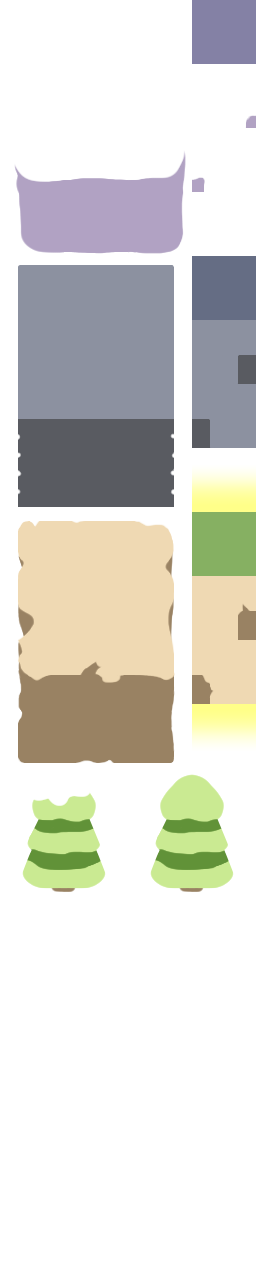
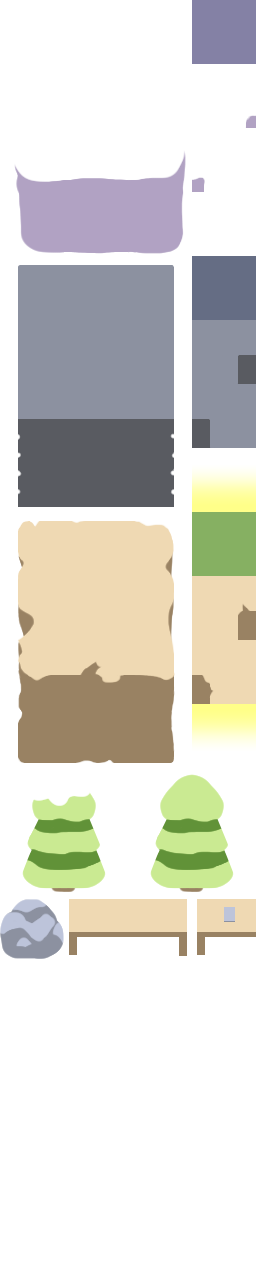
more content

Changed region(s): [[0.0, 0.6875, 1.0, 0.75]]

diff --git a/scripts/room.js b/scripts/room.js
@@ -1,1 +1,1 @@
-var maps = {"Title":{"map":[[]],"npcs":[],"doors":[],"background":"block"},"JIDA":{"map":[[0,1,0,1,0,0,0,0,0,0,0,0,0,0,0,0,0,0,0,0,0,0,0,0,0,0,0,0,0,0],[1,0,0,1,1,1,0,0,1,1,1,0,0,1,1,1,1,1,1,1,1,1,0,0,1,1,1,1,1,0],[1,0,0,1,0,0,1,1,0,0,0,1,1,0,0,0,0,0,0,0,0,0,1,1,0,0,0,0,0,1],[1,0,0,0,0,0,1,1,0,0,0,1,1,0,0,0,0,0,0,0,0,0,1,1,0,0,0,0,0,1],[1,0,0,0,0,0,0,0,0,0,0,0,0,0,0,0,0,0,0,0,0,0,0,0,0,0,0,0,0,1],[1,0,0,0,0,0,0,0,0,0,0,0,0,0,0,0,0,0,0,0,0,0,1,1,0,0,0,0,0,1],[1,0,0,0,0,0,0,0,0,0,0,0,0,0,0,0,0,0,0,0,0,0,1,1,0,0,0,0,0,1],[1,0,0,0,0,0,0,0,0,0,0,0,0,0,0,0,0,0,0,0,0,0,1,1,0,0,0,0,0,1],[1,0,0,0,0,0,0,0,0,0,0,0,0,0,0,0,0,0,0,0,0,0,1,1,0,0,0,0,0,1],[0,1,1,1,1,1,1,1,1,1,1,1,1,1,1,1,1,1,1,1,1,1,0,0,1,1,1,1,1,0]],"background":"map_JIDA","npcs":[{"name":"Ferid","x":5,"y":2,"labels":{"Main":["What a grand opportunity",""],"After":["Fight again?",{"menu":"text","choices":[["Yes","Yes"],["No","No"]]}],"Yes":["Yes, yes."],"No":["What a shame."]},"image":"menu_indicator","spawn_condition":""},{"name":"Sayuri","x":11,"y":4,"labels":{"Main":[{"move":1,"dir":"l","run":true,"teleport":false}]},"image":"sayuri"}],"doors":[{"x":2,"y":0,"toX":3,"toY":18,"toMap":"Path"}],"spawnx":26,"spawny":3},"Path":{"map":[[0,0,0,0,0,0,0,1,0,0,0,0,1,0,1,0,0,0,0,0],[0,0,0,1,1,1,1,0,1,1,1,1,1,0,1,0,0,0,0,0],[0,0,1,0,0,0,0,0,0,0,0,0,0,0,0,1,0,0,0,0],[0,0,1,0,0,0,0,0,0,0,0,0,0,0,0,0,1,0,0,0],[0,1,0,0,0,0,0,0,0,0,0,0,0,0,0,0,1,0,0,0],[1,0,0,0,0,0,0,0,0,0,0,0,0,0,0,0,1,0,0,0],[1,0,0,0,0,0,0,0,0,0,0,0,0,0,0,0,0,1,0,0],[1,0,0,0,0,0,0,0,0,0,0,0,0,0,0,0,0,1,0,0],[1,0,0,0,0,0,0,0,0,0,0,0,0,0,0,0,0,1,1,0],[0,1,0,0,0,0,0,0,0,0,0,0,0,0,0,0,0,0,0,1],[0,0,1,1,1,0,1,1,0,0,0,0,0,0,0,0,0,0,0,1],[0,0,0,0,0,1,0,1,0,0,0,0,0,0,0,0,0,0,0,1],[0,0,0,0,0,0,0,1,0,0,0,0,0,0,0,0,0,0,0,1],[0,0,1,0,0,0,1,1,0,0,0,0,0,0,0,0,0,0,0,1],[0,1,0,1,1,1,0,0,0,0,0,0,0,0,0,0,0,0,0,1],[1,0,0,0,0,0,0,0,0,0,0,0,0,0,0,0,0,0,0,1],[1,0,0,0,0,0,0,0,0,0,0,0,0,0,0,0,0,0,0,1],[1,0,0,0,0,0,0,0,0,0,0,0,0,0,0,0,0,0,0,1],[1,0,0,0,0,0,0,0,0,0,0,0,0,0,0,0,0,0,0,1],[0,1,1,0,1,1,1,1,1,1,1,1,1,1,1,1,1,1,1,1]],"background":"map_Path","npcs":[],"doors":[{"x":3,"y":19,"toX":2,"toY":1,"toMap":"JIDA"}]}}
+var maps = {"Title":{"map":[[]],"npcs":[],"doors":[],"background":"block"},"JIDA":{"map":[[0,1,0,1,0,0,0,0,0,0,0,0,0,0,0,0,0,0,0,0,0,0,0,0,0,0,0,0,0,0],[1,0,0,1,1,1,0,0,1,1,1,0,0,1,1,1,1,1,1,1,1,1,0,0,1,1,1,1,1,0],[1,0,0,1,0,0,1,1,0,0,0,1,1,0,0,0,0,0,0,0,0,0,1,1,0,0,0,0,0,1],[1,0,0,0,0,0,1,1,0,0,0,1,1,0,0,0,0,0,0,0,0,0,1,1,0,0,0,0,0,1],[1,0,0,0,0,0,0,0,0,0,0,0,0,0,0,0,0,0,0,0,0,0,0,0,0,0,0,0,0,1],[1,0,0,0,0,0,0,0,0,0,0,0,0,0,0,0,0,0,0,0,0,0,1,1,0,0,0,0,0,1],[1,0,0,0,0,0,0,0,0,0,0,0,0,0,0,0,0,0,0,0,0,0,1,1,0,0,0,0,0,1],[1,0,0,0,0,0,0,0,0,0,0,0,0,0,0,0,0,0,0,0,0,0,1,1,0,0,0,0,0,1],[1,0,0,0,0,0,0,0,0,0,0,0,0,0,0,0,0,0,0,0,0,0,1,1,0,0,0,0,0,1],[0,1,1,1,1,1,1,1,1,1,1,1,1,1,1,1,1,1,1,1,1,1,0,0,1,1,1,1,1,0]],"background":"map_JIDA","npcs":[{"name":"Ferid","x":5,"y":2,"labels":{"Main":[{"name":"Ferid"},"What a grand opportunity to fight.",{"battle":"ferid"}],"Yes":["Yes, yes.",{"battle":"ferid"}],"No":["What a shame."],"Secondary":[{"name":"Ferid"},"Fight again?",{"menu":"text","choices":[["Yes","Yes"],["No","No"]]}]},"image":"ferid","spawn_condition":""},{"name":"Sayuri","x":17,"y":4,"labels":{"Main":[{"name":"Sayuri"},"Good luck on your mission!"]},"image":"sayuri"},{"name":"device","x":9,"y":2,"labels":{"Main":[{"pickup":"device","message":"Picked up the [magic device].","after":"No need for a second device."},{"setvar":"state","value":"start"}]}},{"name":"door_lol","x":2,"y":0,"labels":{"Main":[{"name":"Mika"},"I should get my device first."]},"spawn_condition":""}],"doors":[],"spawnx":24,"spawny":4},"Path":{"map":[[0,0,0,0,0,0,0,1,0,0,0,0,1,0,1,0,0,0,0,0],[0,0,0,1,1,1,1,0,1,1,1,1,1,0,1,0,0,0,0,0],[0,0,1,0,0,0,0,0,0,0,0,0,0,0,0,1,0,0,0,0],[0,0,1,0,0,0,0,0,0,0,0,0,0,0,0,0,1,0,0,0],[0,1,0,0,0,0,0,0,0,0,0,0,0,0,0,0,1,0,0,0],[1,0,0,0,0,0,0,0,0,0,0,1,0,0,0,0,1,0,0,0],[1,0,0,0,0,0,0,0,0,0,0,0,0,0,0,0,0,1,0,0],[1,0,0,0,0,0,0,0,0,0,0,0,0,0,0,0,0,1,0,0],[1,0,0,0,0,0,0,0,0,0,0,0,0,0,0,0,0,1,1,0],[0,1,0,0,0,0,0,0,0,0,0,0,0,0,0,0,0,0,0,1],[0,0,1,1,1,0,1,1,0,0,0,0,0,0,0,0,0,0,0,1],[0,0,0,0,0,1,0,1,0,0,0,0,0,0,0,0,0,0,0,1],[0,0,0,0,0,0,0,1,0,0,0,0,0,0,0,0,0,0,0,1],[0,0,1,0,0,0,1,1,0,0,0,0,0,0,0,0,0,0,0,1],[0,1,0,1,1,1,0,0,0,0,0,0,0,0,0,0,0,0,0,1],[1,0,0,0,0,0,0,0,0,0,0,0,0,0,0,0,1,0,0,1],[1,0,0,0,0,0,0,0,0,0,0,0,0,0,0,1,0,0,0,1],[1,0,0,0,0,0,0,0,0,0,0,0,0,0,0,0,0,0,0,1],[1,0,0,0,0,0,0,0,0,0,0,0,0,0,0,0,0,0,0,1],[0,1,1,0,1,1,1,1,1,1,1,1,1,1,1,1,1,1,1,1]],"background":"map_Path","npcs":[{"name":"rock","x":13,"y":1,"labels":{"Main":["A rock. Always has been, always will be."]},"image":"rock","spawn_condition":"before_end"}],"doors":[{"x":3,"y":19,"toX":2,"toY":1,"toMap":"JIDA"},{"x":5,"y":10,"toX":16,"toY":1,"toMap":"Territory"},{"x":13,"y":0,"toX":12,"toY":8,"toMap":"cave"}],"spawnx":3,"spawny":18},"Territory":{"map":[[0,0,0,0,0,0,1,1,1,1,1,1,1,1,1,1,1,1,1,1],[0,1,1,1,1,1,0,0,0,0,0,0,0,0,0,0,0,0,0,0],[1,0,0,0,0,0,0,0,0,0,0,0,0,1,1,1,0,1,1,1],[1,0,0,0,0,0,0,0,0,0,0,0,0,1,0,0,1,0,0,0],[1,0,0,0,0,0,0,0,0,0,0,0,0,1,0,0,0,0,0,0],[1,0,0,0,0,0,0,0,0,0,0,0,0,1,1,0,0,0,0,0],[0,1,1,0,0,0,0,0,0,0,0,0,0,0,0,1,1,1,1,0],[0,0,1,0,0,0,0,0,0,0,0,0,0,0,0,0,0,0,0,1],[0,1,1,0,0,0,0,0,0,0,0,0,0,0,0,0,0,0,0,1],[1,0,0,0,0,0,0,0,0,0,0,0,0,0,0,0,0,0,0,1],[1,0,0,0,0,0,0,0,0,0,0,0,0,0,0,0,0,0,0,1],[1,0,0,0,0,0,0,0,0,0,0,0,0,0,0,0,0,1,1,0],[1,0,0,0,0,0,0,0,0,0,0,0,0,0,0,0,0,1,0,0],[1,1,1,1,1,1,1,1,1,1,1,1,1,1,1,1,1,0,0,0],[0,1,0,0,0,0,0,0,0,0,0,0,0,0,0,0,0,0,0,0]],"background":"map_Territory","npcs":[{"name":"crowley","x":14,"y":6,"labels":{"Main":["You shouldn't get here. How did you get here"]},"image":"crowley_shadow"},{"name":"crowley_2","x":12,"y":1,"labels":{"Main":["Argh...my head hurts."]},"image":"crowley","spawn_condition":"looking_for_yuu"}],"doors":[{"x":16,"y":2,"toX":5,"toY":9,"toMap":"Path"}],"spawnx":5,"spawny":5},"cave":{"map":[[0,0,0,0,0,0,0,0,0,0,0,0,0,0,0],[0,0,1,1,0,1,1,1,1,1,1,1,1,1,0],[0,1,0,0,1,0,0,0,0,0,0,0,0,0,1],[1,0,0,0,1,0,0,0,0,1,1,0,0,0,1],[1,0,0,0,0,0,0,0,0,1,1,0,0,0,1],[1,0,1,0,0,0,1,1,1,0,1,0,0,0,1],[1,0,0,0,0,0,1,0,0,0,1,0,0,0,1],[1,0,0,0,0,0,1,1,1,0,1,0,0,0,1],[1,0,0,0,0,0,0,0,0,1,1,0,0,0,1],[0,1,1,1,1,1,1,1,1,0,0,1,0,1,0]],"background":"map_cave","npcs":[{"name":"Ferid","x":5,"y":8,"labels":{"Main":["placeholder dialogue",{"battle":"ferid"}]},"image":"ferid"}],"doors":[{"x":12,"y":9,"toX":13,"toY":1,"toMap":"Path"}]}}

diff --git a/scripts/enemy.js b/scripts/enemy.js
@@ -1,1 +1,1 @@
-var enemies = {"mika_normal":{"name":"Mika","image":"mika","moves":[{"name":"Sword Swing","power":"20","effects":[{"template":"Mika attacks ${_enemy}!"},{"damage":20}],"description":"Slash at the enemy."},{"name":"Kick","power":"40","effects":[{"template":"Mika kicks ${_enemy}!"},{"damage":40,"pause":0},"Mika is damaged by recoil!",{"damage":10,"target":true}],"description":"Kick the opponent."},{"name":"Inner Calm","power":0,"effects":["Mika focuses and becomes calm.",{"statboost":"def_mul","relative":true,"value":2}],"description":"The eye of the hurricane."}],"hp":50,"speed":50,"atk":70,"def":60},"crowley":{"name":"Crowley","image":"crowley","moves":[{"name":"Regen","power":"[Healing]","effects":["Crowley uses vampire regeneration powers.",{"transition":"timewarp","duration":0},{"pause":50},{"damage":-20,"target":true,"pause":0},{"pause":50},"Crowley has recovered HP!"],"description":"Heals self."},{"name":"Sword Slash","power":"40","effects":[{"template":"Crowley slashes at ${_enemy}."},{"damage":40,"pause":0,"target":false}],"description":"Slice enemies with a sword."},{"name":"Bloodthirsty Sword","power":"-","effects":["Crowley commands his sword to drink his blood.",{"statboost":"atk_mul","relative":true,"value":1},{"damage":10,"target":true},"Crowley's attack stat increased!"],"description":"Consume HP to boost Attack."}],"speed":90,"hp":70,"atk":60,"def":40},"ferid":{"name":"Ferid","image":"menu_indicator","moves":[{"name":"Regen","power":"[Healing]","effects":["Ferid heals himself with vampiric regeneration.",{"pause":40},{"transition":"time_warp","duration":80},{"pause":40},{"damage":-20,"pause":0,"target":true},""],"description":"Recovery."},{"name":"Bloodsucking Sword","power":"-","effects":["Ferid's sword consumes some of his blood.",{"statboost":"atk_mul","relative":true,"value":1},{"damage":-10,"pause":0,"target":true}],"description":"His weapon gains power from drinking blood."}],"hp":50,"speed":90,"def":50,"atk":70}}
+var enemies = {"mika_normal":{"name":"Mika","image":"mika","moves":[{"name":"Sword Swing","power":"20","effects":[{"template":"Mika attacks ${_enemy}!"},{"damage":20}],"description":"Slash at the enemy."},{"name":"Kick","power":"40","effects":[{"template":"Mika kicks ${_enemy}!"},{"damage":40,"pause":0},"Mika is damaged by recoil!",{"damage":10,"target":true}],"description":"Kick the opponent."},{"name":"Inner Calm","power":0,"effects":["Mika focuses and becomes calm.",{"statboost":"def_mul","relative":true,"value":2}],"description":"The eye of the hurricane."}],"hp":50,"speed":50,"atk":70,"def":60},"crowley":{"name":"Crowley","image":"crowley","moves":[{"name":"Regen","power":"[Healing]","effects":["Crowley uses vampire regeneration powers.",{"transition":"timewarp","duration":0},{"pause":50},{"damage":-20,"target":true,"pause":0},{"pause":50},"Crowley has recovered HP!"],"description":"Heals self."},{"name":"Sword Slash","power":"40","effects":[{"template":"Crowley slashes at ${_enemy}."},{"damage":40,"pause":0,"target":false}],"description":"Slice enemies with a sword."},{"name":"Bloodthirsty Sword","power":"-","effects":["Crowley commands his sword to drink his blood.",{"statboost":"atk_mul","relative":true,"value":1},{"damage":10,"target":true},"Crowley's attack stat increased!"],"description":"Consume HP to boost Attack."}],"speed":90,"hp":70,"atk":60,"def":40},"ferid":{"name":"Ferid","image":"menu_indicator","moves":[{"name":"Regen","power":"[Healing]","effects":["Ferid heals himself with vampiric regeneration.",{"pause":40},{"transition":"timewarp","duration":80},{"pause":40},{"damage":-20,"pause":0,"target":true}],"description":"Recovery."},{"name":"Bloodsucking Sword","power":"-","effects":["Ferid's sword consumes some of his blood.",{"statboost":"atk_mul","relative":true,"value":1},{"damage":-10,"pause":0,"target":true}],"description":"His weapon gains power from drinking blood."}],"hp":50,"speed":90,"def":50,"atk":70}}

diff --git a/scripts/object.js b/scripts/object.js
@@ -8,11 +8,11 @@ var inventory = {};
 var quests = {};
 var finished_quests = {};
 var transitions;
-var landscape = {
-  bridge: true,
-  telescope: true,
+var user_vars = {
+  entered_territory: false,
+  looking_for_yuu: false,
+  before_end: true
 };
-var user_vars = {};
 var party = [];
 var battle_data = {};
 var progress = 0;
@@ -23,7 +23,6 @@ if (localStorage.getItem('save')) {
 } else {
   var main_menu_item = [
     ["PLAY", "serapoke_intro"],
-    ["battle test", "serapoke_battle_test"]
   ]
 }
 
@@ -47,13 +46,12 @@ for (let key of Object.keys(maps)) {
 // player
 player = new Player(0, 0, "mika");
 
-label.serapoke_battle_test = [
-{battle:"crowley", lose:"serapoke_battle_loss"},
-{jump:"serapoke_init"},
-]
-
-label.serapoke_battle_loss = [
-{room:"JIDA"}
+// adding functionality that isn't in the builder
+maps.JIDA.npcs[3].labels.Main = [
+  () => {
+    if (inventory.device) bt.Insert({room:"Path"});
+    else bt.Insert({name:"Mika"},"I should go get my device first.");
+  }
 ]
 
 // INTRO
@@ -66,16 +64,18 @@ label.main_menu = [
 {change:background, image:spr.main_menu},
 {menu:text,
 	choices: main_menu_item
-},
+}
 ]
+
 label.serapoke_intro = [
 {change:background},
 {change:text, x:80, y:150},
-"In this world, where there are many dangers...@                                        @...JIDA keeps the world at peace.",
+"In this world, where there are many dangers...@                           @...JIDA keeps the world at peace.",
 {transition:"fade"},
 {pause:50},
 {jump:"serapoke_init"}
 ]
+
 label.serapoke_init = [
 {change:text, x:80, y:400},
 ()=>{
@@ -93,7 +93,85 @@ label.serapoke_init = [
 {show:"box"},
 {name:"Sayuri"},
 "I see you're dressed for your mission already.",
-"As long as you keep your head down, the vampires@won't be suspicious.",
+{name:"Mika"},
+"Yes. Even if it's just the edge of vampire territory,@I'd rather not draw suspicion.",
+{name:"Sayuri"},
+"Yoichi will be your contact today. Make sure to@pick up your magic device from the desk.",
+{name:"Mika"},
+"I will, thank you.",
+{move:1, dir:"l"},
+{pause:10},
+{move:1, dir:"d"},
+{pause:20}
+]
+
+label.serapoke_path = [
+"*ping*",
+{name:"Yoichi"},
+"Hi! This is Yoichi.",
+{name:"Mika"},
+"insert mission review here",
+"mika must check out a monster sighting at the border",
+"yuu who had an earlier mission is supposed to@meet up with him"
+]
+
+label.serapoke_territory = [
+"This is the vampire territory...",
+{move:0, dir:"l", run:true},
+{pause:60},
+{move:0, dir:"s"},
+{move:0, teleport:true, x:-1, y:-1},
+"!!!",
+"...",
+"Whew, I don't think he saw me..."
+]
+
+label.serapoke_battle_crowley = [
+{name:"Crowley"},
+"placeholder dialogue",
+{move:1, dir:"r"},
+{pause:30},
+{move:1, dir:"s"},
+"more placeholder",
+"yeh",
+{battle:"crowley", lose:"serapoke_battle_loss"},
+{name:"Crowley"},
+"No!",
+{move:1, dir:"l", run:true},
+{pause:30},
+{move:1, dir:"s"},
+"I've been defeated...",
+"Who cares what Ferid is up to anyway.",
+"If you want to find him, try somewhere purple.",
+{setvar:"looking_for_yuu", value:false},
+{setvar:"before_end", value:false}
+]
+
+maps.Territory.creation_code = () => {
+  if (!user_vars.entered_territory) {
+    user_vars.entered_territory = true;
+    calling_npc = null;
+    bt.adv.name.text = "Mika";
+    in_talk = true;
+    bt.Jump("serapoke_territory");
+  } else {
+    npcs[0].x = -1 * GRIDSIZE;
+    if (user_vars.looking_for_yuu) {
+      calling_npc = null;
+      bt.adv.name.text = "Mika";
+      in_talk = true;
+      if (user_vars.has_fought_crowley) {
+        bt.Jump("serapoke_rematch_crowley");
+      } else {
+        user_vars.has_fought_crowley = true;
+        bt.Jump("serapoke_battle_crowley");
+      }
+    }
+  }
+}
+
+label.serapoke_battle_loss = [
+{room:"JIDA"}
 ]
 
 label.serapoke_load = [

diff --git a/builder/src/components/ScriptEditor.vue b/builder/src/components/ScriptEditor.vue
@@ -81,6 +81,7 @@
           :npcs="npcs"
           :index="name + i"
           :items="items"
+          :enemies="enemies"
           @create-next="createNext(name, i)"
           @remove-action="removeCell(name, i)"
           @focus-next="focusNext(name, i)"
@@ -97,6 +98,7 @@
 </template>
 
 <script>
+import DialogueBattle from '@/components/DialogueBattle.vue'
 import DialogueName from '@/components/DialogueName.vue'
 import DialogueMenu from '@/components/DialogueMenu.vue'
 import DialogueMove from '@/components/DialogueMove.vue'
@@ -105,6 +107,7 @@ import DialogueVar from '@/components/DialogueVar.vue'
 import DialoguePause from '@/components/DialoguePause.vue'
 export default {
   components: {
+    'dialogue-battle': DialogueBattle,
     'dialogue-name': DialogueName,
     'dialogue-menu': DialogueMenu,
     'dialogue-move': DialogueMove,
@@ -134,6 +137,10 @@ export default {
       required: true
     },
     items: {
+      type: Object,
+      required: true
+    },
+    enemies: {
       type: Object,
       required: true
     }
@@ -182,6 +189,11 @@ export default {
           color: 'blue',
           cellType: 'name',
           icon: 'mdi-account-card-details'
+        },
+        {
+          color: 'pink',
+          cellType: 'battle',
+          icon: 'mdi-google-photos'
         }
       ]
     }
@@ -194,6 +206,7 @@ export default {
       else if (line.pause || line.pause === 0) return 'dialogue-pause'
       else if (line.pickup || line.drop) return 'dialogue-item'
       else if (line.setvar || line.setvar === '') return 'dialogue-var'
+      else if (line.battle || line.battle === '') return 'dialogue-battle'
     },
     addCell() {
       this.story.push('')
@@ -262,6 +275,16 @@ export default {
           break
         case 'var':
           this.story.splice(index, 1, { setvar: '', value: '' })
+          break
+        case 'battle':
+          if (this.enemies) {
+            this.story.splice(index, 1, {
+              battle: Object.keys(this.enemies)[0]
+            })
+          } else {
+            this.story.splice(index, 1, { battle: 'Please create an enemy.' })
+          }
+          break
       }
     }
   }

diff --git a/scripts/main.js b/scripts/main.js
@@ -369,7 +369,7 @@ function Npc({labels, name, image, x, y, spawn_condition, mask}) {
     if (this.image) {
       room.ctx.drawImage(this.image, this.x-this.mask.x, this.y-this.mask.y);
     }
-    else room.ctx.drawImage(spr.block, this.x, this.y);
+    //else room.ctx.drawImage(spr.block, this.x, this.y);
   }
   this.talked_to = false;
   this.say = function() {
@@ -692,7 +692,7 @@ BattleUi.prototype.check_prev = function(move) {
   return false
 }
 BattleUi.prototype.calc_damage = function(att, opp, dmg) {
-  if (dmg < 0) return dmg / 100 * opp.hp;
+  if (dmg < 0) return Math.round(dmg / 100 * opp.hp);
   return Math.max(1, Math.round(
     dmg / 100 * (
       att.atk * (1 + att.atk_mul / 10) -
@@ -702,7 +702,8 @@ BattleUi.prototype.calc_damage = function(att, opp, dmg) {
 }
 
 function spawn_npc(npc, solid = true) {
-  if (!npc.spawn_condition || landscape[npc.spawn_condition]) {
+  if (!npc.spawn_condition || user_vars[npc.spawn_condition] ||
+    (typeof npc.spawn_condition == "function" && npc.spawn_condition())) {
     npc.x *= GRIDSIZE;
     npc.y *= GRIDSIZE;
     npcs.push(npc);

diff --git a/builder/src/components/DialogueBattle.vue b/builder/src/components/DialogueBattle.vue
@@ -1,0 +1,46 @@
+<template>
+  <v-card color="#ddffdd">
+    <v-card-title>
+      Battle
+      <v-btn absolute right icon small @click="deletePrompt = true">
+        <v-icon>mdi-close</v-icon>
+      </v-btn>
+    </v-card-title>
+    <v-card-text>
+      <v-select
+        :items="Object.keys(enemies)"
+        dense
+        solo
+        flat
+        v-model="command.battle"
+      />
+      <delete-menu v-model="deletePrompt" @remove="$emit('remove-action')" />
+    </v-card-text>
+  </v-card>
+</template>
+
+<script>
+import DeleteMenu from '@/components/DeleteMenu.vue'
+export default {
+  components: {
+    'delete-menu': DeleteMenu
+  },
+  props: {
+    command: {
+      type: Object,
+      required: true
+    },
+    enemies: {
+      type: Object,
+      required: true
+    }
+  },
+  data() {
+    return {
+      deletePrompt: false
+    }
+  }
+}
+</script>
+
+<style></style>

diff --git a/scripts/sprite.js b/scripts/sprite.js
@@ -1,1 +1,1 @@
-var SPRITES = {"block":"images/block.png","font":"images/umeplus_gothic_basic.png","menu_indicator":"images/indicator.png","box":"images/box.png","map_JIDA":"maps/jida.png","mika":"images/mika.png","yuu":"images/yuu.png","crowley":"images/crowley.png","sayuri":"images/sayuri.png","map_Path":"maps/map_Path.png"}
+var SPRITES = {"block":"images/block.png","font":"images/umeplus_gothic_basic.png","menu_indicator":"images/indicator.png","box":"images/box.png","map_JIDA":"maps/jida.png","mika":"images/mika.png","yuu":"images/yuu.png","crowley":"images/crowley.png","sayuri":"images/sayuri.png","map_Path":"maps/map_Path.png","map_Territory":"maps/map_Territory.png","battle_bg":"images/battle.jpg","ferid":"images/ferid.png","crowley_shadow":"images/crowley_shadow.png","map_cave":"maps/map_cave.png","rock":"images/rock.png"}

diff --git a/scripts/talking.js b/scripts/talking.js
@@ -370,8 +370,13 @@ bt.Next = function() {
       }
 
       else if (command.battle) {
+        bt.adv.box.visible = true
+        bt.adv.name.text = '';
+        screen_images.push(new Img(0, 0, spr.battle_bg))
         // set battle variables
         user_vars._enemy = enemies[command.battle].name;
+        // recreate player to not have boosts and what not. because rush
+        party[0].name = new Monster("mika_normal");
         user_vars._leader = party[0].name;
         user_vars._turn = "your turn";
         battle_data = new BattleUi(party[0], new Monster(command.battle));

diff --git a/builder/src/components/NPC.vue b/builder/src/components/NPC.vue
@@ -78,6 +78,7 @@
             :labels="Object.keys(selected.labels)"
             :npcs="npcs"
             :items="items"
+            :enemies="enemies"
             @update-name="updateScriptName"
           />
         </v-col>
@@ -108,6 +109,10 @@ export default {
       required: true
     },
     items: {
+      type: Object,
+      required: true
+    },
+    enemies: {
       type: Object,
       required: true
     }

diff --git a/scripts/item.js b/scripts/item.js
@@ -1,1 +1,1 @@
-var items = {"boots":{"name":"Thigh-high hover boots","description":"They help you nyoom"}}
+var items = {"boots":{"name":"Thigh-high hover boots","description":"They help you nyoom"},"device":{"name":"Magic Device","description":"Useful to communicate with Yoichi"}}

diff --git a/builder/src/components/MoveEditor.vue b/builder/src/components/MoveEditor.vue
@@ -158,7 +158,7 @@ export default {
         {
           color: 'amber',
           cellType: 'template',
-          icon: 'mdi-auto-fix'
+          icon: 'mdi-assistant'
         },
         {
           color: 'red',

diff --git a/builder/src/components/DialogueItem.vue b/builder/src/components/DialogueItem.vue
@@ -1,5 +1,5 @@
 <template>
-  <v-card color="#ddffdd">
+  <v-card color="#ffeacc">
     <v-card-title>
       {{ pickupOrDrop }}
       <v-btn absolute right icon small @click="deletePrompt = true">
